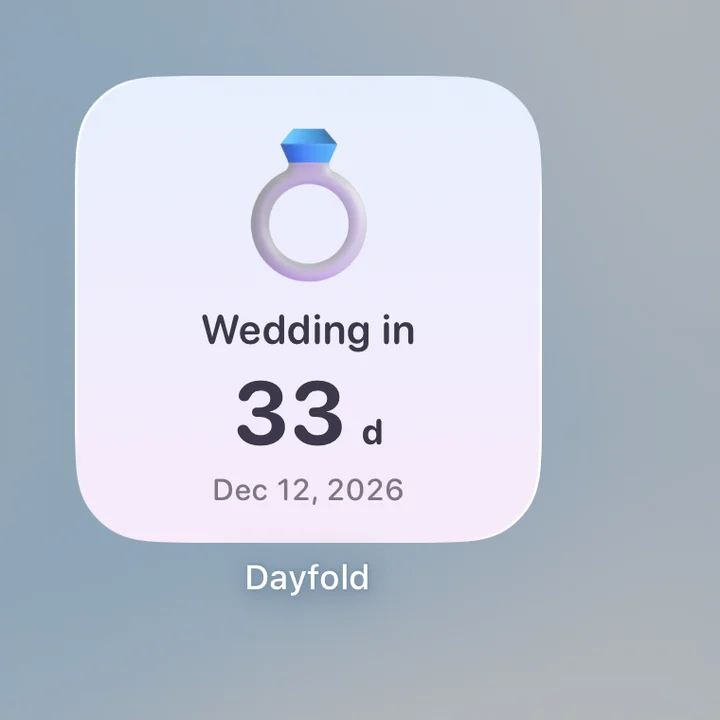
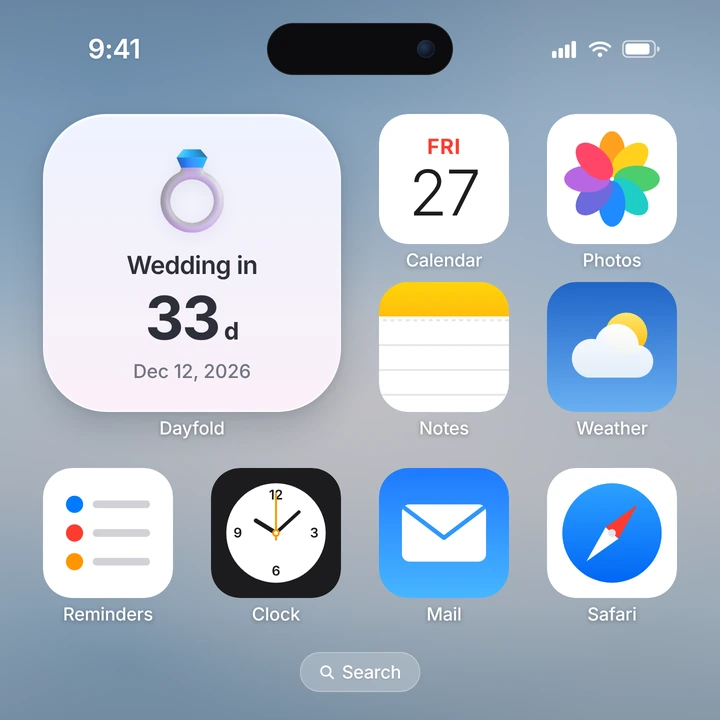
Use finalized Dayfold Home Screen widget images on the scene guides.
Point each of the five English Dayfold guides at its own 720×720 Home Screen widget screenshot, and update the hero alt text and captions to match what those images show.

diff --git a/guides/couple-days-together-anniversary-widget-iphone.html b/guides/couple-days-together-anniversary-widget-iphone.html
@@ -11,11 +11,11 @@
   <meta property="og:type" content="article">
   <meta property="og:url" content="https://foca.work/guides/couple-days-together-anniversary-widget-iphone.html">
   <meta property="og:site_name" content="Foca Studio">
-  <meta property="og:image" content="https://foca.work/images/dayfold-widget-home.webp">
+  <meta property="og:image" content="https://foca.work/images/couple-days-together-anniversary-widget-iphone.webp">
   <meta name="twitter:card" content="summary">
   <meta name="twitter:title" content="Couple Days Together Widget for iPhone">
   <meta name="twitter:description" content="Count the days you've been together, or the days until an anniversary, on an iPhone Lock or Home Screen widget. Dayfold supports count-up and countdown.">
-  <meta name="twitter:image" content="https://foca.work/images/dayfold-widget-home.webp">
+  <meta name="twitter:image" content="https://foca.work/images/couple-days-together-anniversary-widget-iphone.webp">
   <meta name="theme-color" content="#0B0B0C">
   <meta name="apple-itunes-app" content="app-id=6802240198">
   <link rel="icon" href="../images/favicon.png?v=2" type="image/png" sizes="64x64">
@@ -55,7 +55,7 @@
         "@id": "https://foca.work/dayfold.html#app"
       },
       "mainEntityOfPage": "https://foca.work/guides/couple-days-together-anniversary-widget-iphone.html",
-      "image": "https://foca.work/images/dayfold-widget-home.webp"
+      "image": "https://foca.work/images/couple-days-together-anniversary-widget-iphone.webp"
     },
     {
       "@type": "HowTo",
@@ -212,8 +212,8 @@
           <p class="faint byline">By Foca Studio · Last updated <time datetime="2026-11-26">November 26, 2026</time></p>
         </div>
         <figure class="guide-hero-media">
-          <img class="widget-art" src="../images/dayfold-widget-home.webp" alt="Dayfold Home Screen widget reading Wedding in 33 days, December 12, 2026. The same widget can count days since a first date, or days until an anniversary." width="720" height="720">
-          <figcaption class="guide-hero-caption">A real Dayfold Home Screen widget. This example counts down to a wedding; a “days together” moment uses the same widget and counts up from the date you met.</figcaption>
+          <img class="widget-art" src="../images/couple-days-together-anniversary-widget-iphone.webp" alt="iPhone Home Screen with a Dayfold widget: two hearts icon, Together for 520 d, June 25, 2025." width="720" height="720">
+          <figcaption class="guide-hero-caption">A Dayfold widget on the iPhone Home Screen, with a hearts icon and “Together for 520 d,” dated June 25, 2025.</figcaption>
         </figure>
       </header>
 

diff --git a/guides/new-year-2027-countdown-widget-iphone.html b/guides/new-year-2027-countdown-widget-iphone.html
@@ -11,11 +11,11 @@
   <meta property="og:type" content="article">
   <meta property="og:url" content="https://foca.work/guides/new-year-2027-countdown-widget-iphone.html">
   <meta property="og:site_name" content="Foca Studio">
-  <meta property="og:image" content="https://foca.work/images/dayfold-widget-home.webp">
+  <meta property="og:image" content="https://foca.work/images/new-year-2027-countdown-widget-iphone.webp">
   <meta name="twitter:card" content="summary">
   <meta name="twitter:title" content="New Year 2027 Countdown Widget for iPhone">
   <meta name="twitter:description" content="Put a New Year 2027 countdown on your iPhone Lock Screen or Home Screen. Create 1 January 2027 in Dayfold, add a widget, and the number updates each day.">
-  <meta name="twitter:image" content="https://foca.work/images/dayfold-widget-home.webp">
+  <meta name="twitter:image" content="https://foca.work/images/new-year-2027-countdown-widget-iphone.webp">
   <meta name="theme-color" content="#0B0B0C">
   <meta name="apple-itunes-app" content="app-id=6802240198">
   <link rel="icon" href="../images/favicon.png?v=2" type="image/png" sizes="64x64">
@@ -55,7 +55,7 @@
         "@id": "https://foca.work/dayfold.html#app"
       },
       "mainEntityOfPage": "https://foca.work/guides/new-year-2027-countdown-widget-iphone.html",
-      "image": "https://foca.work/images/dayfold-widget-home.webp"
+      "image": "https://foca.work/images/new-year-2027-countdown-widget-iphone.webp"
     },
     {
       "@type": "HowTo",
@@ -212,8 +212,8 @@
           <p class="faint byline">By Foca Studio · Last updated <time datetime="2026-11-26">November 26, 2026</time></p>
         </div>
         <figure class="guide-hero-media">
-          <img class="widget-art" src="../images/dayfold-widget-home.webp" alt="A Dayfold Home Screen countdown widget. This example reads Wedding in 33 days; a New Year moment uses the same widget with the date 1 January 2027." width="720" height="720">
-          <figcaption class="guide-hero-caption">Example of a Dayfold Home Screen countdown widget. This screenshot is a wedding date; a 2027 New Year countdown uses the same widget with January 1, 2027.</figcaption>
+          <img class="widget-art" src="../images/new-year-2027-countdown-widget-iphone.webp" alt="iPhone Home Screen with a Dayfold widget: party popper icon, New Year 2027 in 35 d, January 1, 2027." width="720" height="720">
+          <figcaption class="guide-hero-caption">A Dayfold widget on the iPhone Home Screen, with a party popper icon and “New Year 2027 in 35 d,” dated January 1, 2027.</figcaption>
         </figure>
       </header>
 

diff --git a/guides/baby-age-tracker-widget-iphone.html b/guides/baby-age-tracker-widget-iphone.html
@@ -11,11 +11,11 @@
   <meta property="og:type" content="article">
   <meta property="og:url" content="https://foca.work/guides/baby-age-tracker-widget-iphone.html">
   <meta property="og:site_name" content="Foca Studio">
-  <meta property="og:image" content="https://foca.work/images/dayfold-widget-home.webp">
+  <meta property="og:image" content="https://foca.work/images/baby-age-tracker-widget-iphone.webp">
   <meta name="twitter:card" content="summary">
   <meta name="twitter:title" content="Baby Age Widget for iPhone: Days Since Birth">
   <meta name="twitter:description" content="Show days since your baby was born on an iPhone Lock Screen or Home Screen widget. Dayfold counts elapsed days and can repeat the birthday yearly.">
-  <meta name="twitter:image" content="https://foca.work/images/dayfold-widget-home.webp">
+  <meta name="twitter:image" content="https://foca.work/images/baby-age-tracker-widget-iphone.webp">
   <meta name="theme-color" content="#0B0B0C">
   <meta name="apple-itunes-app" content="app-id=6802240198">
   <link rel="icon" href="../images/favicon.png?v=2" type="image/png" sizes="64x64">
@@ -55,7 +55,7 @@
         "@id": "https://foca.work/dayfold.html#app"
       },
       "mainEntityOfPage": "https://foca.work/guides/baby-age-tracker-widget-iphone.html",
-      "image": "https://foca.work/images/dayfold-widget-home.webp"
+      "image": "https://foca.work/images/baby-age-tracker-widget-iphone.webp"
     },
     {
       "@type": "HowTo",
@@ -212,8 +212,8 @@
           <p class="faint byline">By Foca Studio · Last updated <time datetime="2026-11-26">November 26, 2026</time></p>
         </div>
         <figure class="guide-hero-media">
-          <img class="widget-art" src="../images/dayfold-widget-home.webp" alt="A Dayfold Home Screen widget showing a day count. This example reads Wedding in 33 days; a birth-date moment uses the same widget to show days since the date you set." width="720" height="720">
-          <figcaption class="guide-hero-caption">Example: a Dayfold Home Screen widget. This screenshot shows a wedding countdown; a birth date uses the same widget and counts the days since that date.</figcaption>
+          <img class="widget-art" src="../images/baby-age-tracker-widget-iphone.webp" alt="iPhone Home Screen with a Dayfold widget: baby bottle icon, Baby for 184 d, May 27, 2026." width="720" height="720">
+          <figcaption class="guide-hero-caption">A Dayfold widget on the iPhone Home Screen, with a baby bottle icon and “Baby for 184 d,” dated May 27, 2026.</figcaption>
         </figure>
       </header>
 

diff --git a/guides/wedding-vacation-countdown-widget-iphone.html b/guides/wedding-vacation-countdown-widget-iphone.html
@@ -11,11 +11,11 @@
   <meta property="og:type" content="article">
   <meta property="og:url" content="https://foca.work/guides/wedding-vacation-countdown-widget-iphone.html">
   <meta property="og:site_name" content="Foca Studio">
-  <meta property="og:image" content="https://foca.work/images/dayfold-widget-home.webp">
+  <meta property="og:image" content="https://foca.work/images/wedding-vacation-countdown-widget-iphone.webp">
   <meta name="twitter:card" content="summary">
   <meta name="twitter:title" content="Wedding or Vacation Countdown Widget for iPhone">
   <meta name="twitter:description" content="Count down to a wedding day or the start of a trip on an iPhone Lock Screen or Home Screen widget. Create the date in Dayfold and pin it as a widget.">
-  <meta name="twitter:image" content="https://foca.work/images/dayfold-widget-home.webp">
+  <meta name="twitter:image" content="https://foca.work/images/wedding-vacation-countdown-widget-iphone.webp">
   <meta name="theme-color" content="#0B0B0C">
   <meta name="apple-itunes-app" content="app-id=6802240198">
   <link rel="icon" href="../images/favicon.png?v=2" type="image/png" sizes="64x64">
@@ -55,7 +55,7 @@
         "@id": "https://foca.work/dayfold.html#app"
       },
       "mainEntityOfPage": "https://foca.work/guides/wedding-vacation-countdown-widget-iphone.html",
-      "image": "https://foca.work/images/dayfold-widget-home.webp"
+      "image": "https://foca.work/images/wedding-vacation-countdown-widget-iphone.webp"
     },
     {
       "@type": "HowTo",
@@ -206,8 +206,8 @@
           <p class="faint byline">By Foca Studio · Last updated <time datetime="2026-11-26">November 26, 2026</time></p>
         </div>
         <figure class="guide-hero-media">
-          <img class="widget-art" src="../images/dayfold-widget-home.webp" alt="Dayfold Home Screen widget reading Wedding in 33 days, dated December 12, 2026, with ring artwork." width="720" height="720">
-          <figcaption class="guide-hero-caption">A Dayfold Home Screen widget counting down to a wedding.</figcaption>
+          <img class="widget-art" src="../images/wedding-vacation-countdown-widget-iphone.webp" alt="iPhone Home Screen with two Dayfold widgets side by side: ring icon, Wedding in 42 d, January 8, 2027, and airplane icon, Japan Trip in 15 d, December 12, 2026." width="720" height="720">
+          <figcaption class="guide-hero-caption">Two Dayfold widgets on the iPhone Home Screen: “Wedding in 42 d,” January 8, 2027, and “Japan Trip in 15 d,” December 12, 2026.</figcaption>
         </figure>
       </header>
 

diff --git a/guides/exam-countdown-widget-iphone.html b/guides/exam-countdown-widget-iphone.html
@@ -11,11 +11,11 @@
   <meta property="og:type" content="article">
   <meta property="og:url" content="https://foca.work/guides/exam-countdown-widget-iphone.html">
   <meta property="og:site_name" content="Foca Studio">
-  <meta property="og:image" content="https://foca.work/images/dayfold-widget-home.webp">
+  <meta property="og:image" content="https://foca.work/images/exam-countdown-widget-iphone.webp">
   <meta name="twitter:card" content="summary">
   <meta name="twitter:title" content="Exam Countdown Widget for iPhone Lock Screen">
   <meta name="twitter:description" content="Put an exam countdown on your iPhone Lock Screen or Home Screen. Create the date in Dayfold, add a widget, and the day count updates by itself.">
-  <meta name="twitter:image" content="https://foca.work/images/dayfold-widget-home.webp">
+  <meta name="twitter:image" content="https://foca.work/images/exam-countdown-widget-iphone.webp">
   <meta name="theme-color" content="#0B0B0C">
   <meta name="apple-itunes-app" content="app-id=6802240198">
   <link rel="icon" href="../images/favicon.png?v=2" type="image/png" sizes="64x64">
@@ -55,7 +55,7 @@
         "@id": "https://foca.work/dayfold.html#app"
       },
       "mainEntityOfPage": "https://foca.work/guides/exam-countdown-widget-iphone.html",
-      "image": "https://foca.work/images/dayfold-widget-home.webp"
+      "image": "https://foca.work/images/exam-countdown-widget-iphone.webp"
     },
     {
       "@type": "HowTo",
@@ -212,8 +212,8 @@
           <p class="faint byline">By Foca Studio · Last updated <time datetime="2026-11-26">November 26, 2026</time></p>
         </div>
         <figure class="guide-hero-media">
-          <img class="widget-art" src="../images/dayfold-widget-home.webp" alt="A Dayfold Home Screen widget showing a day countdown. This example reads Wedding in 33 days; an exam moment uses the same widget with the exam date you set." width="720" height="720">
-          <figcaption class="guide-hero-caption">Example of a Dayfold Home Screen countdown widget. This screenshot is a wedding date; an exam uses the same widget and the date of the paper or test.</figcaption>
+          <img class="widget-art" src="../images/exam-countdown-widget-iphone.webp" alt="iPhone Home Screen with a Dayfold widget: books icon, Final Exam in 18 d, December 15, 2026." width="720" height="720">
+          <figcaption class="guide-hero-caption">A Dayfold widget on the iPhone Home Screen, with a books icon and “Final Exam in 18 d,” dated December 15, 2026.</figcaption>
         </figure>
       </header>
 
